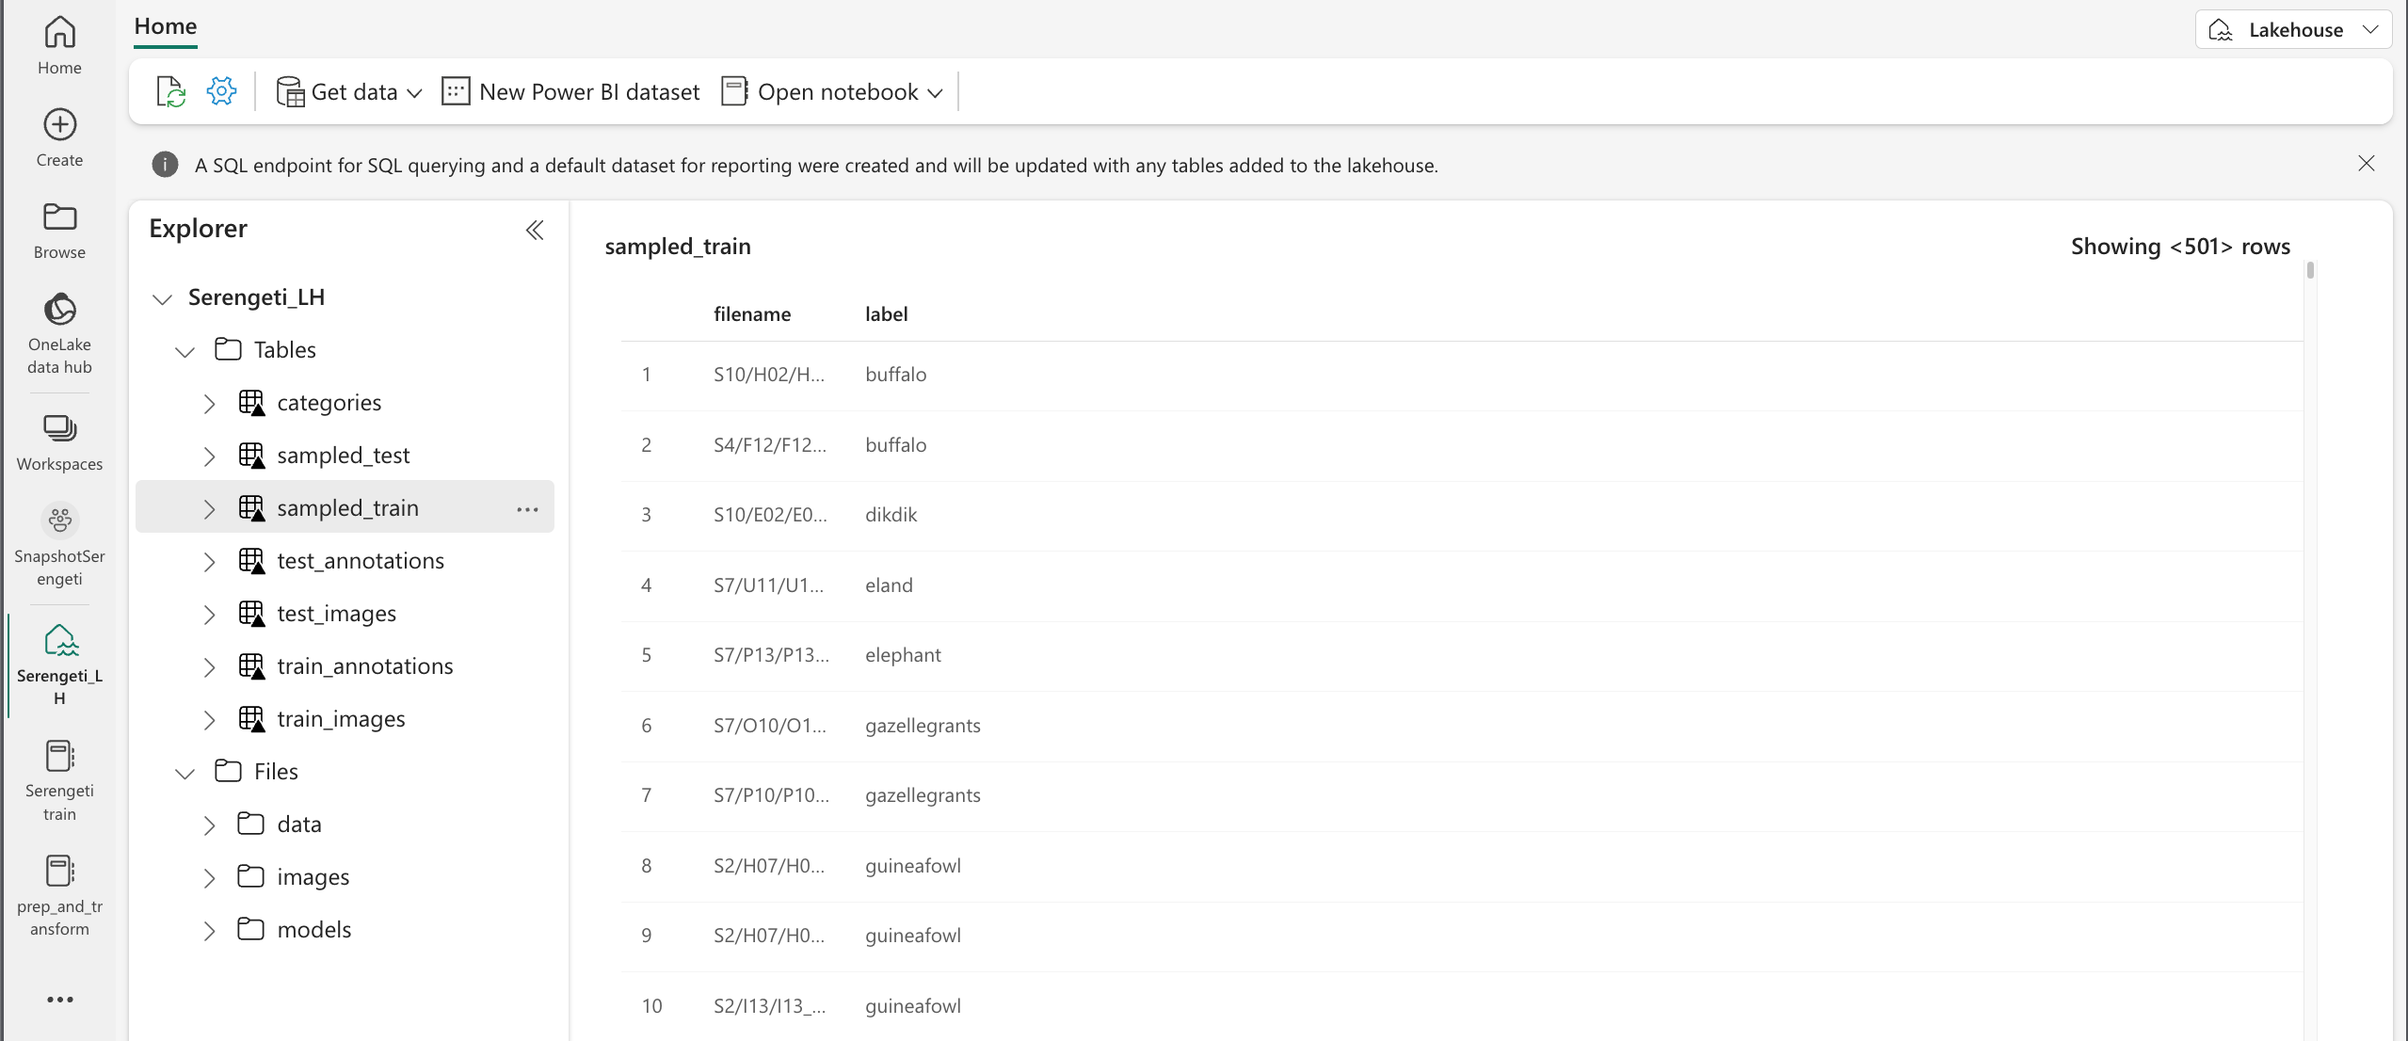
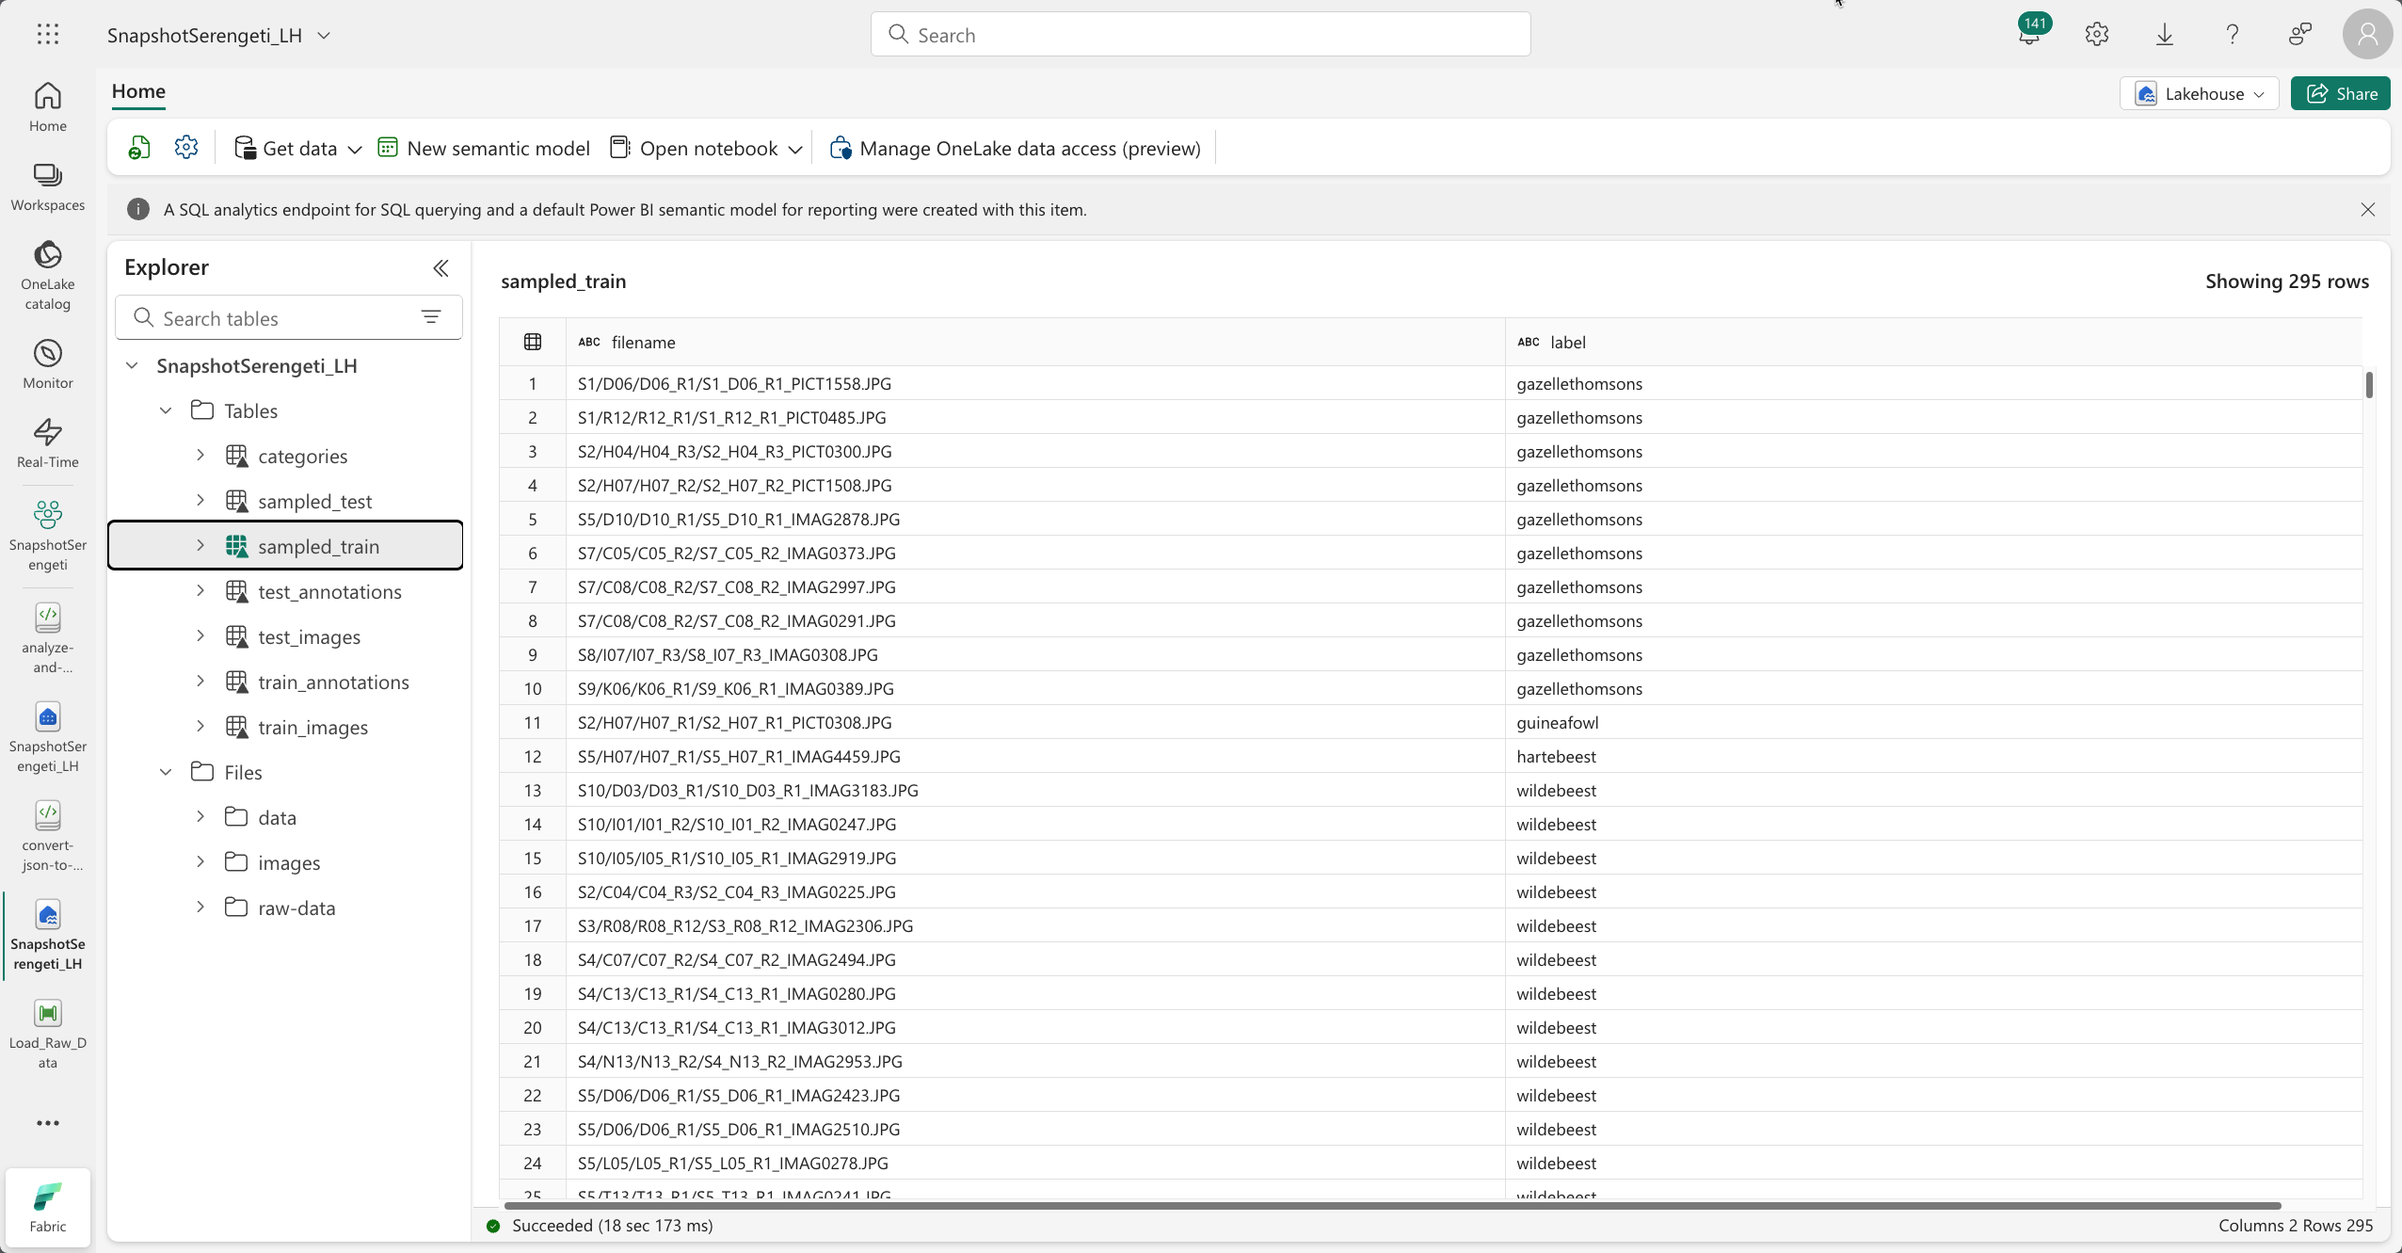
complete section 7

diff --git a/workshops/fabric-e2e-serengeti/workshop.md b/workshops/fabric-e2e-serengeti/workshop.md
@@ -644,30 +644,39 @@ sequence_length_counts = (seq_counts
 display(sequence_length_counts)
 ```
 
-Next we will load the category names from the Categories table in the Lakehouse. We'll then add a new column called *label* in the df_train dataframe which is the category name for each category_id and finally remove the category_id column from df_train and rename the image_id column to filename and append the .JPG extension to the the values
+Next we will load the category names from the Categories table in the Lakehouse. We'll then add a new column called *label* in the df_train dataframe which is the category name for each category_id and finally remove the category_id column from df_train and rename the image_id column to filename and append the .JPG extension to the filename. We achieve this by defining a function called `transform_image_data` which takes the dataframe and the categories dataframe as input and returns the transformed dataframe. This function will be reused later to perform the same transformation on the test data.
 
 ```python
 from pyspark.sql.functions import concat, lit
 
+def transform_image_data(df, categories_df):
+    """
+    Joins the input DataFrame with the categories DataFrame, renames columns,
+    and appends a '.JPG' extension to the filename column.
+    """
+    # Join on category_id to map category names. The join brings the category name as "name", which we then rename to "label".
+    df = df.join(
+        categories_df.select(col("id").alias("category_id"), col("name")),
+        on="category_id",
+        how="left"
+    ).withColumnRenamed("name", "label")
+
+    # Drop the 'category_id' column
+    df = df.drop("category_id")
+
+    # Rename 'image_id' to 'filename'
+    df = df.withColumnRenamed("image_id", "filename")
+
+    # Append '.JPG' to the filename
+    df = df.withColumn("filename", concat(col("filename"), lit(".JPG")))
+
+    return df
+
 # Load the categories table as a Spark DataFrame
 categories_df = spark.sql("SELECT * FROM SnapshotSerengeti_LH.categories")
 
-# Join df_train with categories_df on category_id (matching with id) to map category names.
-# The join brings the category name as "name", which we then rename to "label".
-df_train = df_train.join(
-    categories_df.select(col("id").alias("category_id"), col("name")),
-    on="category_id",
-    how="left"
-).withColumnRenamed("name", "label")
-
-# Drop the category_id column
-df_train = df_train.drop("category_id")
-
-# Rename the image_id column to filename.
-df_train = df_train.withColumnRenamed("image_id", "filename")
-
-# Append the '.JPG' extension to the filename column.
-df_train = df_train.withColumn("filename", concat(col("filename"), lit(".JPG")))
+# Apply trsnaformation for image data
+df_train = transform_image_data(df_train, categories_df)
 ```
 
 Since we are working with a sequence of images we will pick the first image from each sequence, with the assumption that the time period after a camera trap is triggered is the most likely time for an animal to be in the frame.
@@ -789,75 +798,89 @@ Now that we have successfully analyzed the data and performed some transformatio
 
 We will select a subset of the data from the main dataset in a way that maintains the same distribution of the `label`, `season` and `location`.
 
-To do this we define two functions:
+To do this we define a function called `proportional_allocation_percentage` that takes the dataset and a percentage as input and the performs proportional allocation of the dataset. 
 
-1. `proportional_allocation_percentage`: This function takes the dataset and a percentage, calculates the sample size and calls the second function to perform the proportional allocation.
+```python
+def proportional_allocation_percentage(df, percentage):
+    """
+    Proportionally allocate a sample of 'percentage'% of df across label, season, location
+    """
+    # Determine the total number of rows and desired sample size
+    total_count = df.count()
+    sample_size = int(round(total_count * (percentage / 100.0)))
 
-    ```python
-    def proportional_allocation_percentage(data, percentage):
-        # Calculate total rows in 'data'
-        original_count = data.count()
-        
-        # Convert percentage to a sample size
-        sample_count = int((percentage / 100) * original_count)
-        
-        # Delegate to proportional_allocation
-        return proportional_allocation(data, sample_count)
-    ```
+    # Compute group counts
+    group_counts = (
+        df.groupBy("label", "season", "location")
+          .count()  # number of rows in each group
+          .withColumnRenamed("count", "group_count")
+    )
 
-2. `proportional_allocation`: This function takes the dataset and the sample size, groups the data, calculates how many rows to take from each (label, season, location) group, adjusts for rounding, and then uses Spark’s window function to randomly pick rows from each group.
+    # Compute the proportion of each group, then approximate "sample_needed" via rounding
+    group_counts = (
+        group_counts
+        .withColumn("proportion", F.col("group_count") / F.lit(total_count))
+        .withColumn("sample_needed", F.round(F.col("proportion") * sample_size).cast("int"))
+    )
 
-    ```python
-    from pyspark.sql.functions import broadcast, rand
+    #  Collect just the group-level info to the driver for fine-grained adjustment
+    group_counts_pd = group_counts.select(
+        "label", "season", "location", "group_count", "sample_needed", "proportion"
+    ).toPandas()
 
-    def proportional_allocation(df, sample_size):
-        """
-        Performs stratified proportional sampling on `df` by (label, season, location)
-        to obtain an exact total of `sample_size` rows.
-        """
-        # Optionally repartition to reduce shuffle on large data:
-        # df = df.repartition("label", "season", "location")
-        
-        # Compute total and group totals
-        total_count = df.count()  # single pass
-        group_counts_df = df.groupBy("label", "season", "location").agg(F.count("*").alias("group_count"))
-        
-        # Convert to a small pandas DataFrame to fix sample sizes on the driver
-        pdf = group_counts_df.toPandas()
-        pdf["proportion"] = pdf["group_count"] / total_count
-        pdf["raw_size"] = (pdf["proportion"] * sample_size).round().astype(int)
-        
-        #  Fix rounding differences so the sum matches `sample_size`
-        diff = sample_size - pdf["raw_size"].sum()
-        if diff > 0:
-            # Add 1 to groups with the highest proportions
-            pdf = pdf.sort_values("proportion", ascending=False)
-            pdf.iloc[:diff, pdf.columns.get_loc("raw_size")] += 1
-        elif diff < 0:
-            # Subtract 1 from groups with the lowest proportions
-            pdf = pdf.sort_values("proportion", ascending=True)
-            pdf.iloc[:abs(diff), pdf.columns.get_loc("raw_size")] -= 1
-        
-        # Convert final group sizes back to Spark DF
-        final_sizes_sdf = df.sparkSession.createDataFrame(
-            pdf[["label", "season", "location", "raw_size"]]
+    # Sum of "sample_needed" might not equal the total desired sample_size due to rounding
+    current_sum = group_counts_pd["sample_needed"].sum()
+    difference = sample_size - current_sum
+
+    if difference > 0:
+        # If we're short, we add +1 to the groups with the largest proportions until we fix the difference
+        # Sort descending by proportion
+        group_counts_pd = group_counts_pd.sort_values("proportion", ascending=False)
+        for i in range(difference):
+            group_counts_pd.iat[i, group_counts_pd.columns.get_loc("sample_needed")] += 1
+        # Re-sort back if desired
+        group_counts_pd = group_counts_pd.sort_values(["label", "season", "location"])
+    elif difference < 0:
+        # If we have too many, subtract 1 from the groups with the smallest proportions
+        # Sort ascending by proportion
+        group_counts_pd = group_counts_pd.sort_values("proportion", ascending=True)
+        for i in range(abs(difference)):
+            group_counts_pd.iat[i, group_counts_pd.columns.get_loc("sample_needed")] -= 1
+        # Re-sort back if desired
+        group_counts_pd = group_counts_pd.sort_values(["label", "season", "location"])
+
+    # Create a Spark DataFrame of the final sample allocations
+    allocations_sdf = spark.createDataFrame(group_counts_pd)
+
+    #  Join the allocations back to the main DataFrame so each row knows how many rows 
+    #    from its group we want to keep
+    df_joined = (
+        df.join(
+            F.broadcast(allocations_sdf),
+            on=["label", "season", "location"],
+            how="left"
         )
-        
-        # Join + random row_number + filter
-        joined = df.join(broadcast(final_sizes_sdf), on=["label", "season", "location"], how="inner")
-        
-        window = Window.partitionBy("label", "season", "location").orderBy(rand())
-        result = (
-            joined
-            .withColumn("rn", row_number().over(window))
-            .filter(F.col("rn") <= F.col("raw_size"))
-            .drop("rn", "raw_size")
-        )
-        
-        return result
-    ```
+    )
 
-This approach uses integer rounding and random selection and thus exact counts can vary slightly. For purposes of this demo we we will use `0.05%` of the original dataset, but you can adjust the percentage to any value you want.
+    # Use a row_number partitioned by (label, season, location) to limit how many rows per group
+    window_spec = Window.partitionBy("label", "season", "location").orderBy(F.monotonically_increasing_id())
+    df_with_rn = df_joined.withColumn("rn", F.row_number().over(window_spec))
+
+    # Filter out rows where 'rn' exceeds 'sample_needed'
+    df_sample = df_with_rn.filter(F.col("rn") <= F.col("sample_needed"))
+
+    # Drop helper columns if you don't need them in the final result
+    df_sample = df_sample.drop("proportion", "group_count", "sample_needed", "rn")
+
+    return df_sample
+```
+
+This function works by first determining the total number of rows in the dataframe and the desired sample size based on the percentage provided. It then computes the group counts for each combination of `label`, `season`, and `location` and calculates the proportion of each group. The function then adjusts the sample size to ensure that it matches the desired sample size.
+
+Finally, it filters the original dataframe to include only the rows that are needed for the sample.
+
+
+For purposes of this demo we we will use `0.05%` of the original dataset, but you can adjust the percentage to any value you want.
 
 ```python
 percent = 0.05
@@ -879,47 +902,52 @@ Create your own chart using the rich dataframe chart view to visualize the sampl
 
 Now that we have a sampled dataset, we will download the images into the lakehouse.
 
-To do, we will be using the opencv library to download the images. Define a function that takes in the url of the image and the path to download the image to.
+To do this, define a function that takes in the url of the image and the path to download the image to.
 
 ```python
 import urllib.request
-import cv2
-import imutils
+from PIL import Image
+import os
 
 def download_and_resize_image(url, path, kind):
     filename = os.path.basename(path)
     directory = os.path.dirname(path)
 
+    # Define a new directory path where permission is granted
     directory_path = f'/lakehouse/default/Files/images/{kind}/{directory}/'
 
     # Create the directory if it does not exist
     os.makedirs(directory_path, exist_ok=True)
 
-    # check if file already exists
-    if os.path.isfile(os.path.join(directory_path, filename)):
+    # Define the full target file path
+    target_file_path = os.path.join(directory_path, filename)
+
+    # Check if file already exists
+    if os.path.isfile(target_file_path):
         return
 
     # Download the image
-    urllib.request.urlretrieve(url, filename)
+    urllib.request.urlretrieve(url, target_file_path)
 
-    # Read the image using OpenCV
-    img = cv2.imread(filename)
+    # Open the image using PIL
+    img = Image.open(target_file_path)
 
-    # Resize the image to a reasonable ML training size using imutils
-    resized_img = imutils.resize(img, width=224, height=224, inter=cv2.INTER_AREA)
+    # Resize the image to a reasonable ML training size
+    resized_img = img.resize((224, 224), Image.ANTIALIAS)
 
     # Save the resized image to a defined filepath
-    cv2.imwrite(os.path.join(directory_path, filename), resized_img)
+    resized_img.save(target_file_path)
 ```
 
 The kind parameter is used to define whether the image is a training image or a validation/testing image.
 
-We are going to use this `download_and_resize_image` function in another function that will execute the download in parallel using the `concurrent.futures` library.
+We are going to use this `download_and_resize_image` function in another function that will execute the download in parallel using the `concurrent.futures` library. For simplicity, we'll convert the spark dataframe to a Pandas dataframe because it is small enough to fit into memory.
 
 ```python
 import concurrent.futures
 
-def execute_parallel_download(df, kind):
+def execute_parallel_download(spark_df, kind):
+    df = spark_df.toPandas()
     # Use a process pool instead of a thread pool to avoid thread safety issues
     with concurrent.futures.ProcessPoolExecutor() as executor:
         # Batch process images instead of processing them one at a time
@@ -935,25 +963,18 @@ def execute_parallel_download(df, kind):
 Next we will prepare the test data in the same way we have the train data then download both the train and test images.
 
 ```python
-df = spark.sql("SELECT * FROM DemoLakehouse.test_annotations WHERE test_annotations.category_id > 1")
+df_test = spark.sql("SELECT * FROM SnapshotSerengeti_LH.test_annotations WHERE test_annotations.category_id > 1")
 
-df_test = df.select("season", "seq_id", "category_id", "location", "image_id", "datetime")
 
-df_test= df_test.filter(df_test.image_id.isNotNull()).dropDuplicates()
+df_test = (
+    df_test
+    .filter(df_test.image_id.isNotNull())
+    .dropDuplicates()
+    .withColumn("season_extracted", split(col("seq_id"), "#").getItem(0))
+    .withColumn("season_label", regexp_replace(col("season_extracted"), "SER_", "")))
 
-df_test = df_test.toPandas()
-
-df_test['label'] = category_map[df_test.category_id].values
-
-df_test = df_test.drop('category_id', axis=1)
-
-df_test = df_test.rename(columns={'image_id':'filename'})
-
-df_test['filename'] = df_test.filename+ '.JPG'
-
-df_test = df_test.sort_values('filename').groupby('seq_id').first().reset_index()
-
-df_test['image_url'] = df_test['filename'].apply(get_ImageUrl)
+df_test = transform_image_data(df_test, categories_df)
+df_test = df_test.withColumn("image_url", get_ImageUrl_udf(col("filename")))
 
 sampled_test = proportional_allocation_percentage(df_test, 0.27)
 ```
@@ -962,7 +983,7 @@ From this code snippet we create a test set using `0.27%` from the original test
 
 ### Download the images
 
-Next we execute the download of the images: this will take approximately 10 minutes to complete.
+Next we execute the download of the images: this will take approximately 3-5 minutes to complete for the 0.05% of the training dataset and 0.27% of the test dataset.
 
 ```python
 import os
@@ -971,18 +992,39 @@ execute_parallel_download(sampled_train, 'train')
 execute_parallel_download(sampled_test, 'test')
 ```
 
-### Save the sampled dataframes to parquet files
-
-Once the download is complete we will then save the sampled train and test dataframes to parquet files in the lakehouse, for use in the next section. We drop all the columns except the filename and label columns, since these are the only required columns for training the model.
+Run the code below to confirm that all the images have been downloaded successfully.
 
 ```python
-data_dir = '/lakehouse/default/Files/data/'
+import os
 
-train_data_file = os.path.join(data_dir, 'sampled_train.parquet')
-test_data_file = os.path.join(data_dir, 'sampled_test.parquet')
+def list_all_files(directory):
+    file_list = []
+    for root, dirs, files in os.walk(directory):
+        for file in files:
+            file_list.append(os.path.join(root, file))
+    return file_list
 
-sampled_train.loc[:, ['filename', 'label']].to_parquet(train_data_file, engine='pyarrow', compression='snappy')
-sampled_test.loc[:, ['filename', 'label']].to_parquet(test_data_file, engine='pyarrow', compression='snappy')
+train_images_path = f"/lakehouse/default/Files/images/train/"
+test_images_path =  f"/lakehouse/default/Files/images/test/"
+
+print(f"{len(list_all_files(train_images_path))} files downloaded out of {sampled_train.count()}")
+print(f"{len(list_all_files(test_images_path))} files downloaded out of {sampled_test.count()}")
+```
+
+Ensure that you have all images downloaded successfully before proceeding. 
+
+### Save the sampled dataframes to parquet files
+
+Once the download is complete we will then save the sampled train and test dataframes to delta tables in the lakehouse, for use in the next section. We drop all the columns except the filename and label columns, since these are the only required columns for training the model.
+
+```python
+# Drop all columns except filename and label and save to a delta table for train data
+sampled_train.select("filename", "label")\
+    .write.saveAsTable("sampled_train", mode="overwrite", overwriteSchema="true")
+
+# Drop all columns except filename and label and save to a delta table for test data
+sampled_test.select("filename", "label")\
+    .write.saveAsTable("sampled_test", mode="overwrite", overwriteSchema="true")
 ```
 
 You can view the saved parquet files from the Lakehouse explorer.
